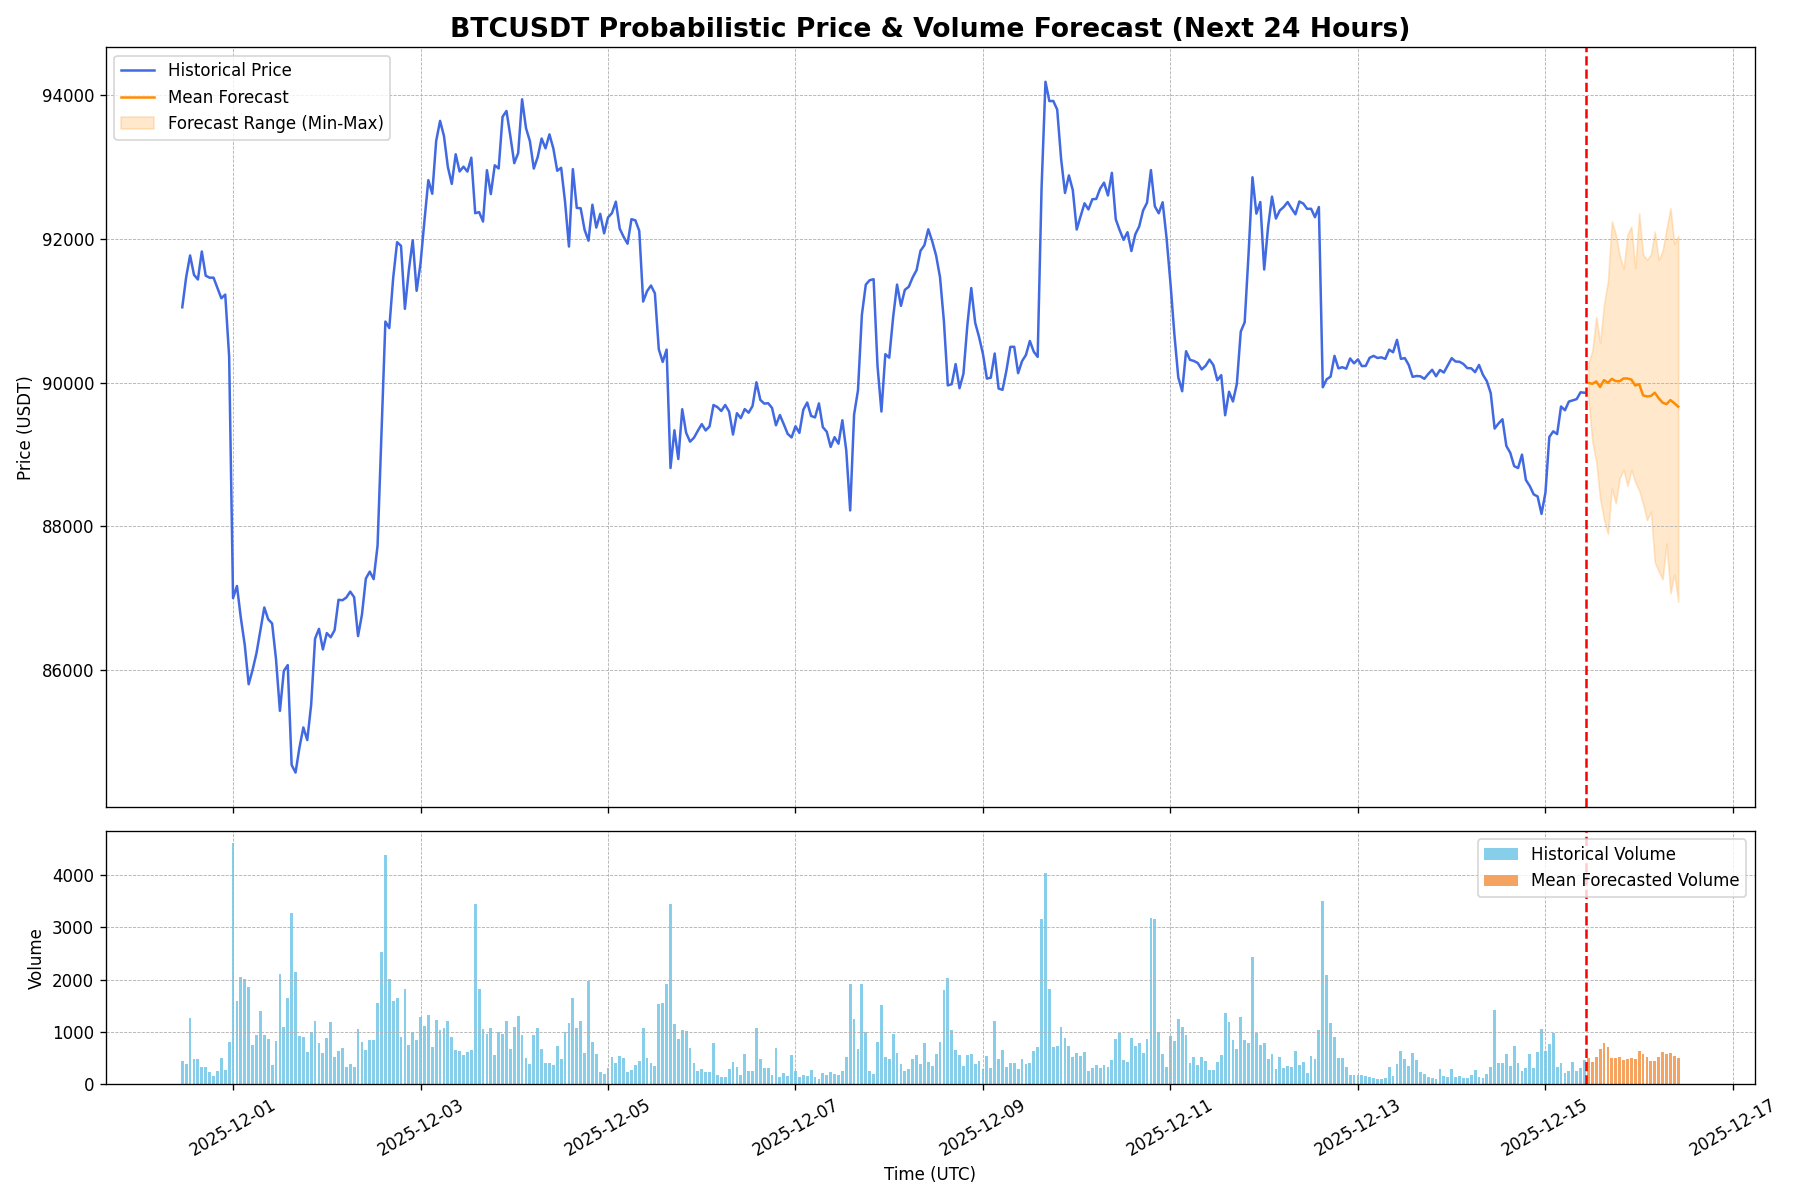
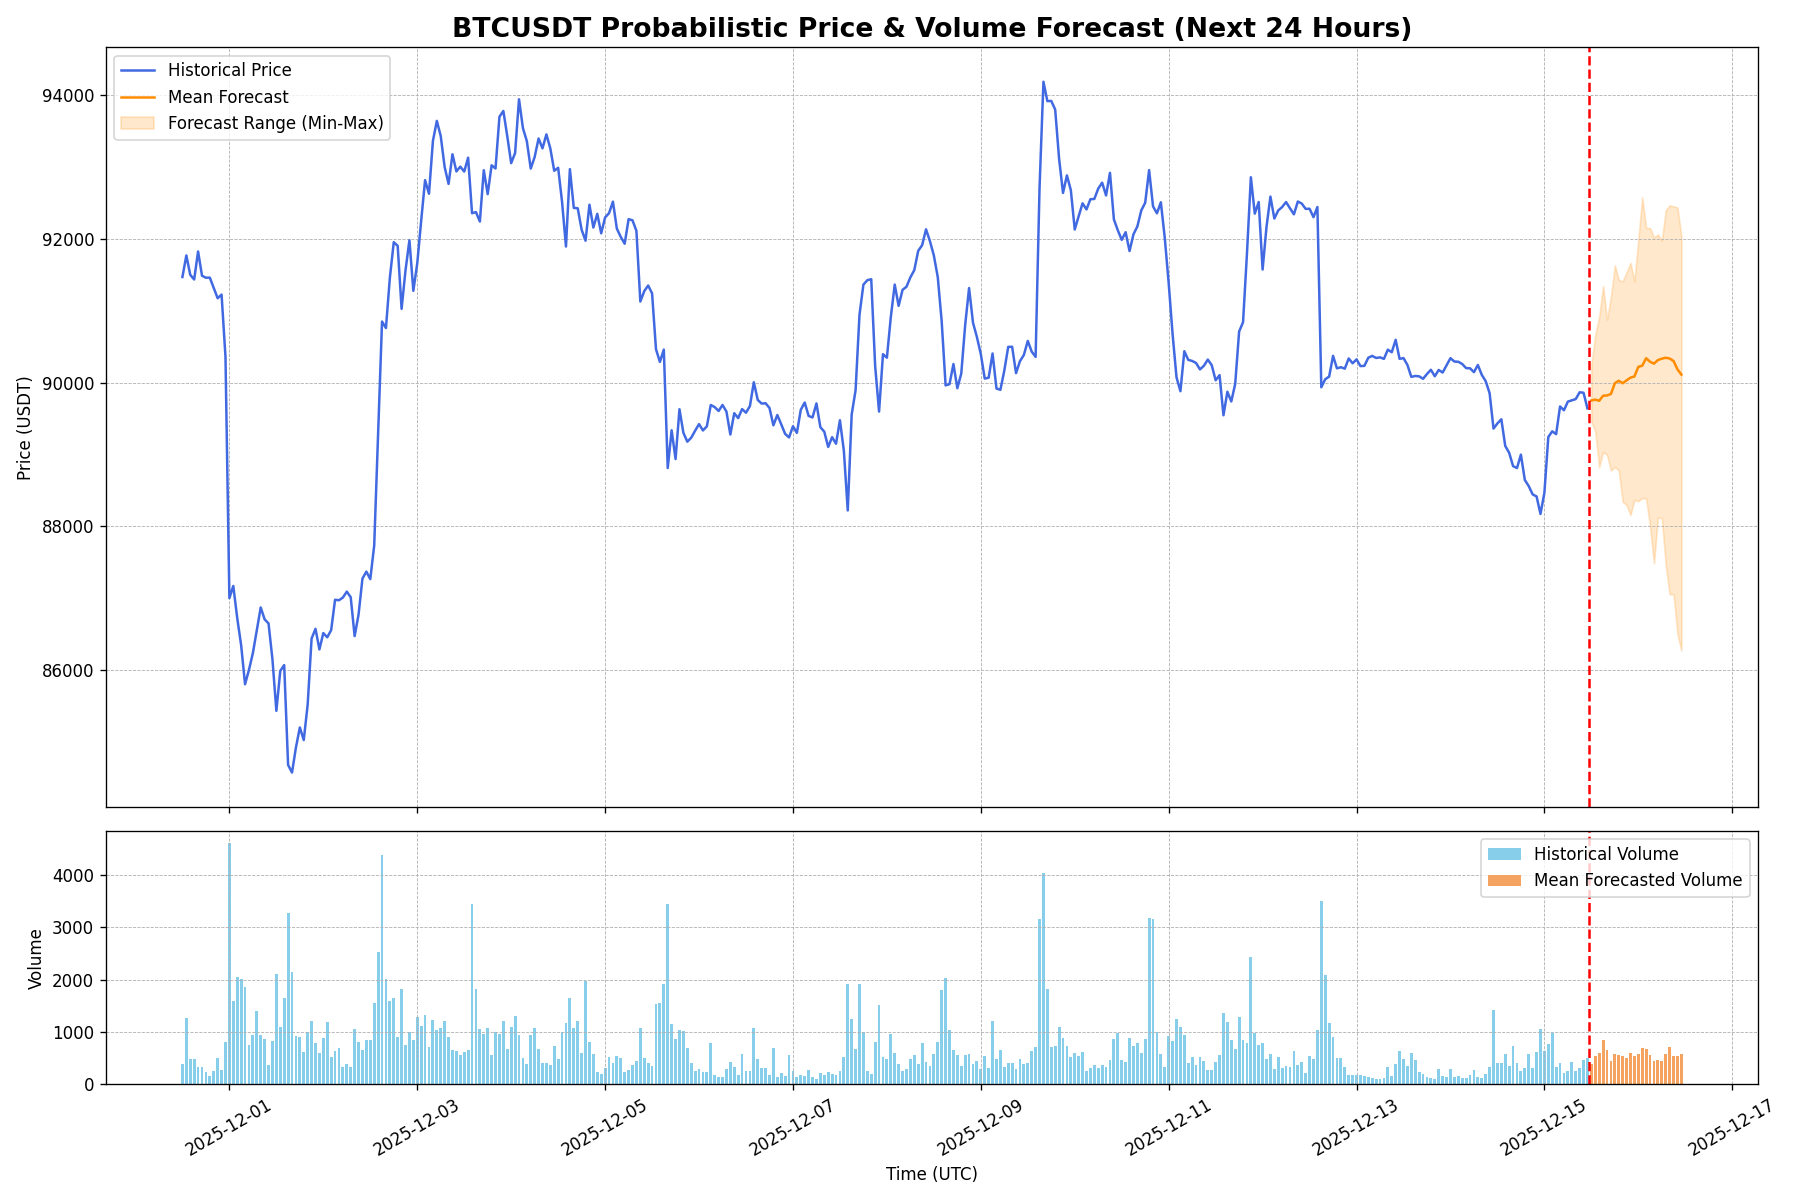
Auto-update forecast for 2025-12-15 12:00 UTC

diff --git a/index.html b/index.html
@@ -22,19 +22,19 @@
         <section id="live-dashboard">
             <h2>Live BTC/USDT Forecast Dashboard</h2>
             <div class="metadata">
-                <span>Last Updated (UTC): <strong id="update-time">2025-12-15 11:00:45</strong></span>
+                <span>Last Updated (UTC): <strong id="update-time">2025-12-15 12:00:45</strong></span>
                 <span>Data Source: Binance | Interval: 1-Hour</span>
             </div>
 
             <div class="metrics-container">
                 <div class="metric-card">
                     <h3>Upside Probability (Next 24h)</h3>
-                    <p class="metric-value" id="upside-prob">50.0%</p>
+                    <p class="metric-value" id="upside-prob">70.0%</p>
                     <div class="metric-desc">The model's confidence that the price in 24 hours will be higher than the last known price.</div>
                 </div>
                 <div class="metric-card">
                     <h3>Volatility Amplification (Next 24h)</h3>
-                    <p class="metric-value" id="vol-amp-prob">66.7%</p>
+                    <p class="metric-value" id="vol-amp-prob">70.0%</p>
                     <div class="metric-desc">The probability that predicted volatility over the next 24h will exceed recent historical volatility.</div>
                 </div>
             </div>
